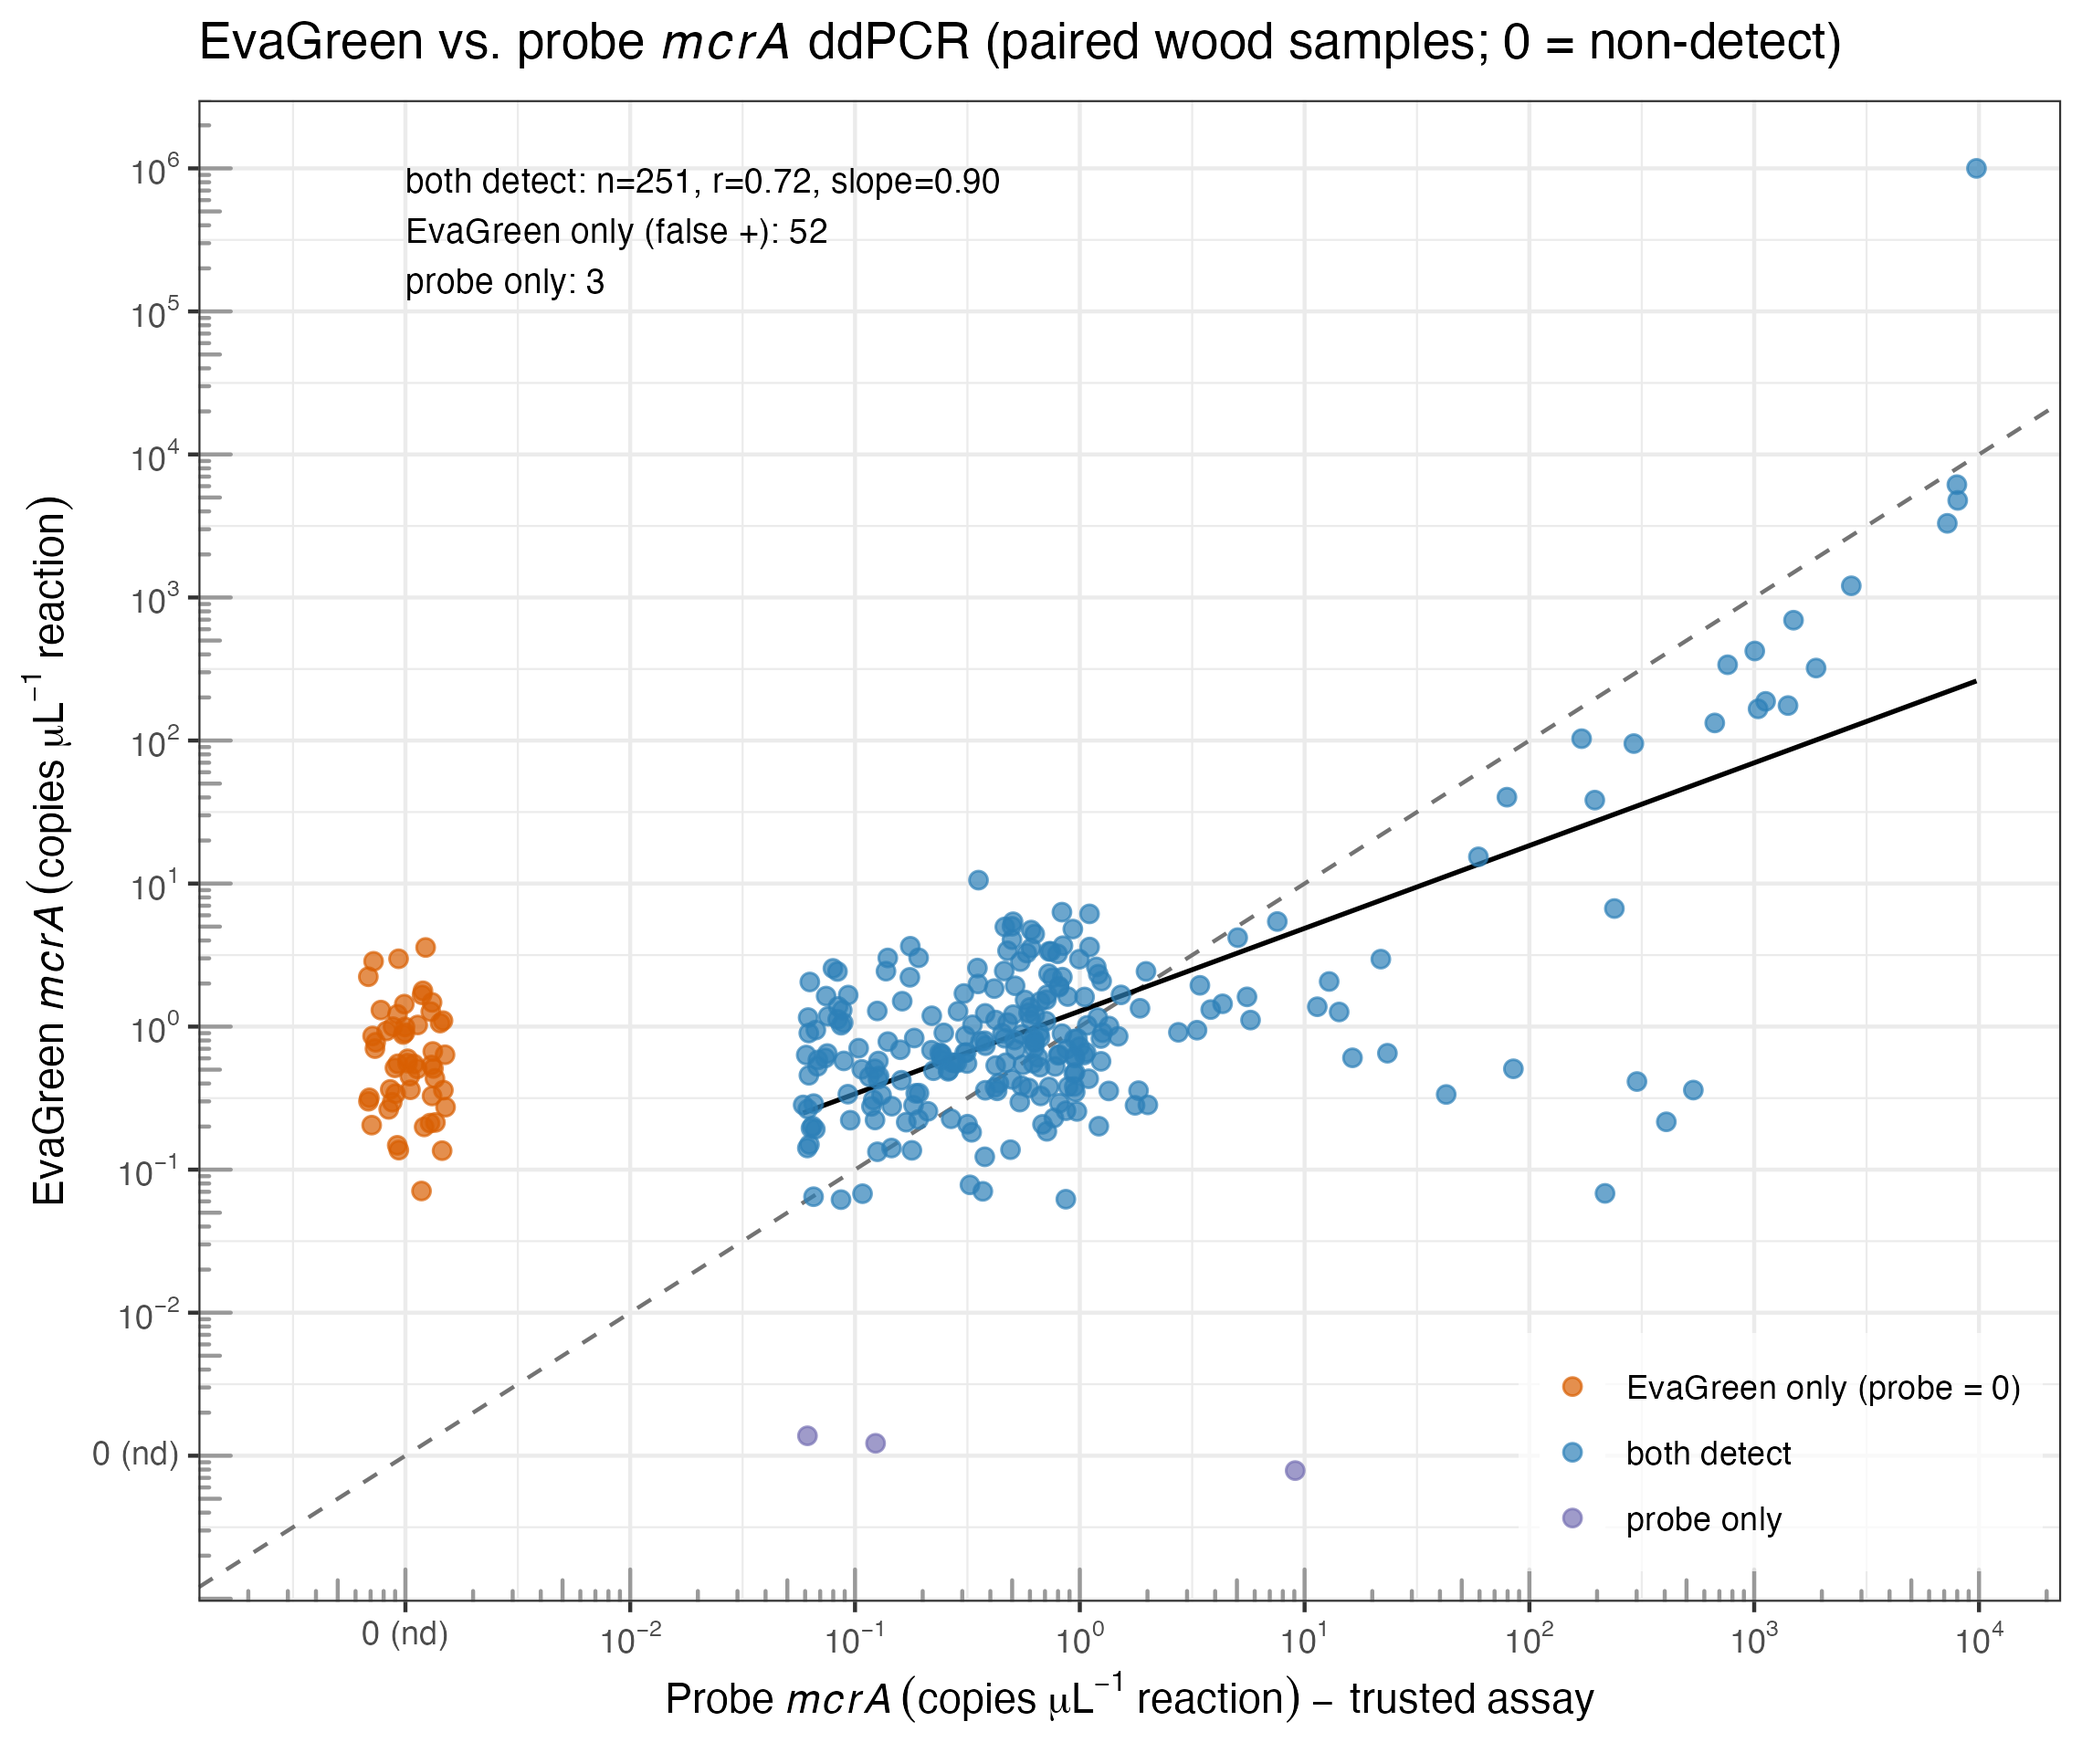
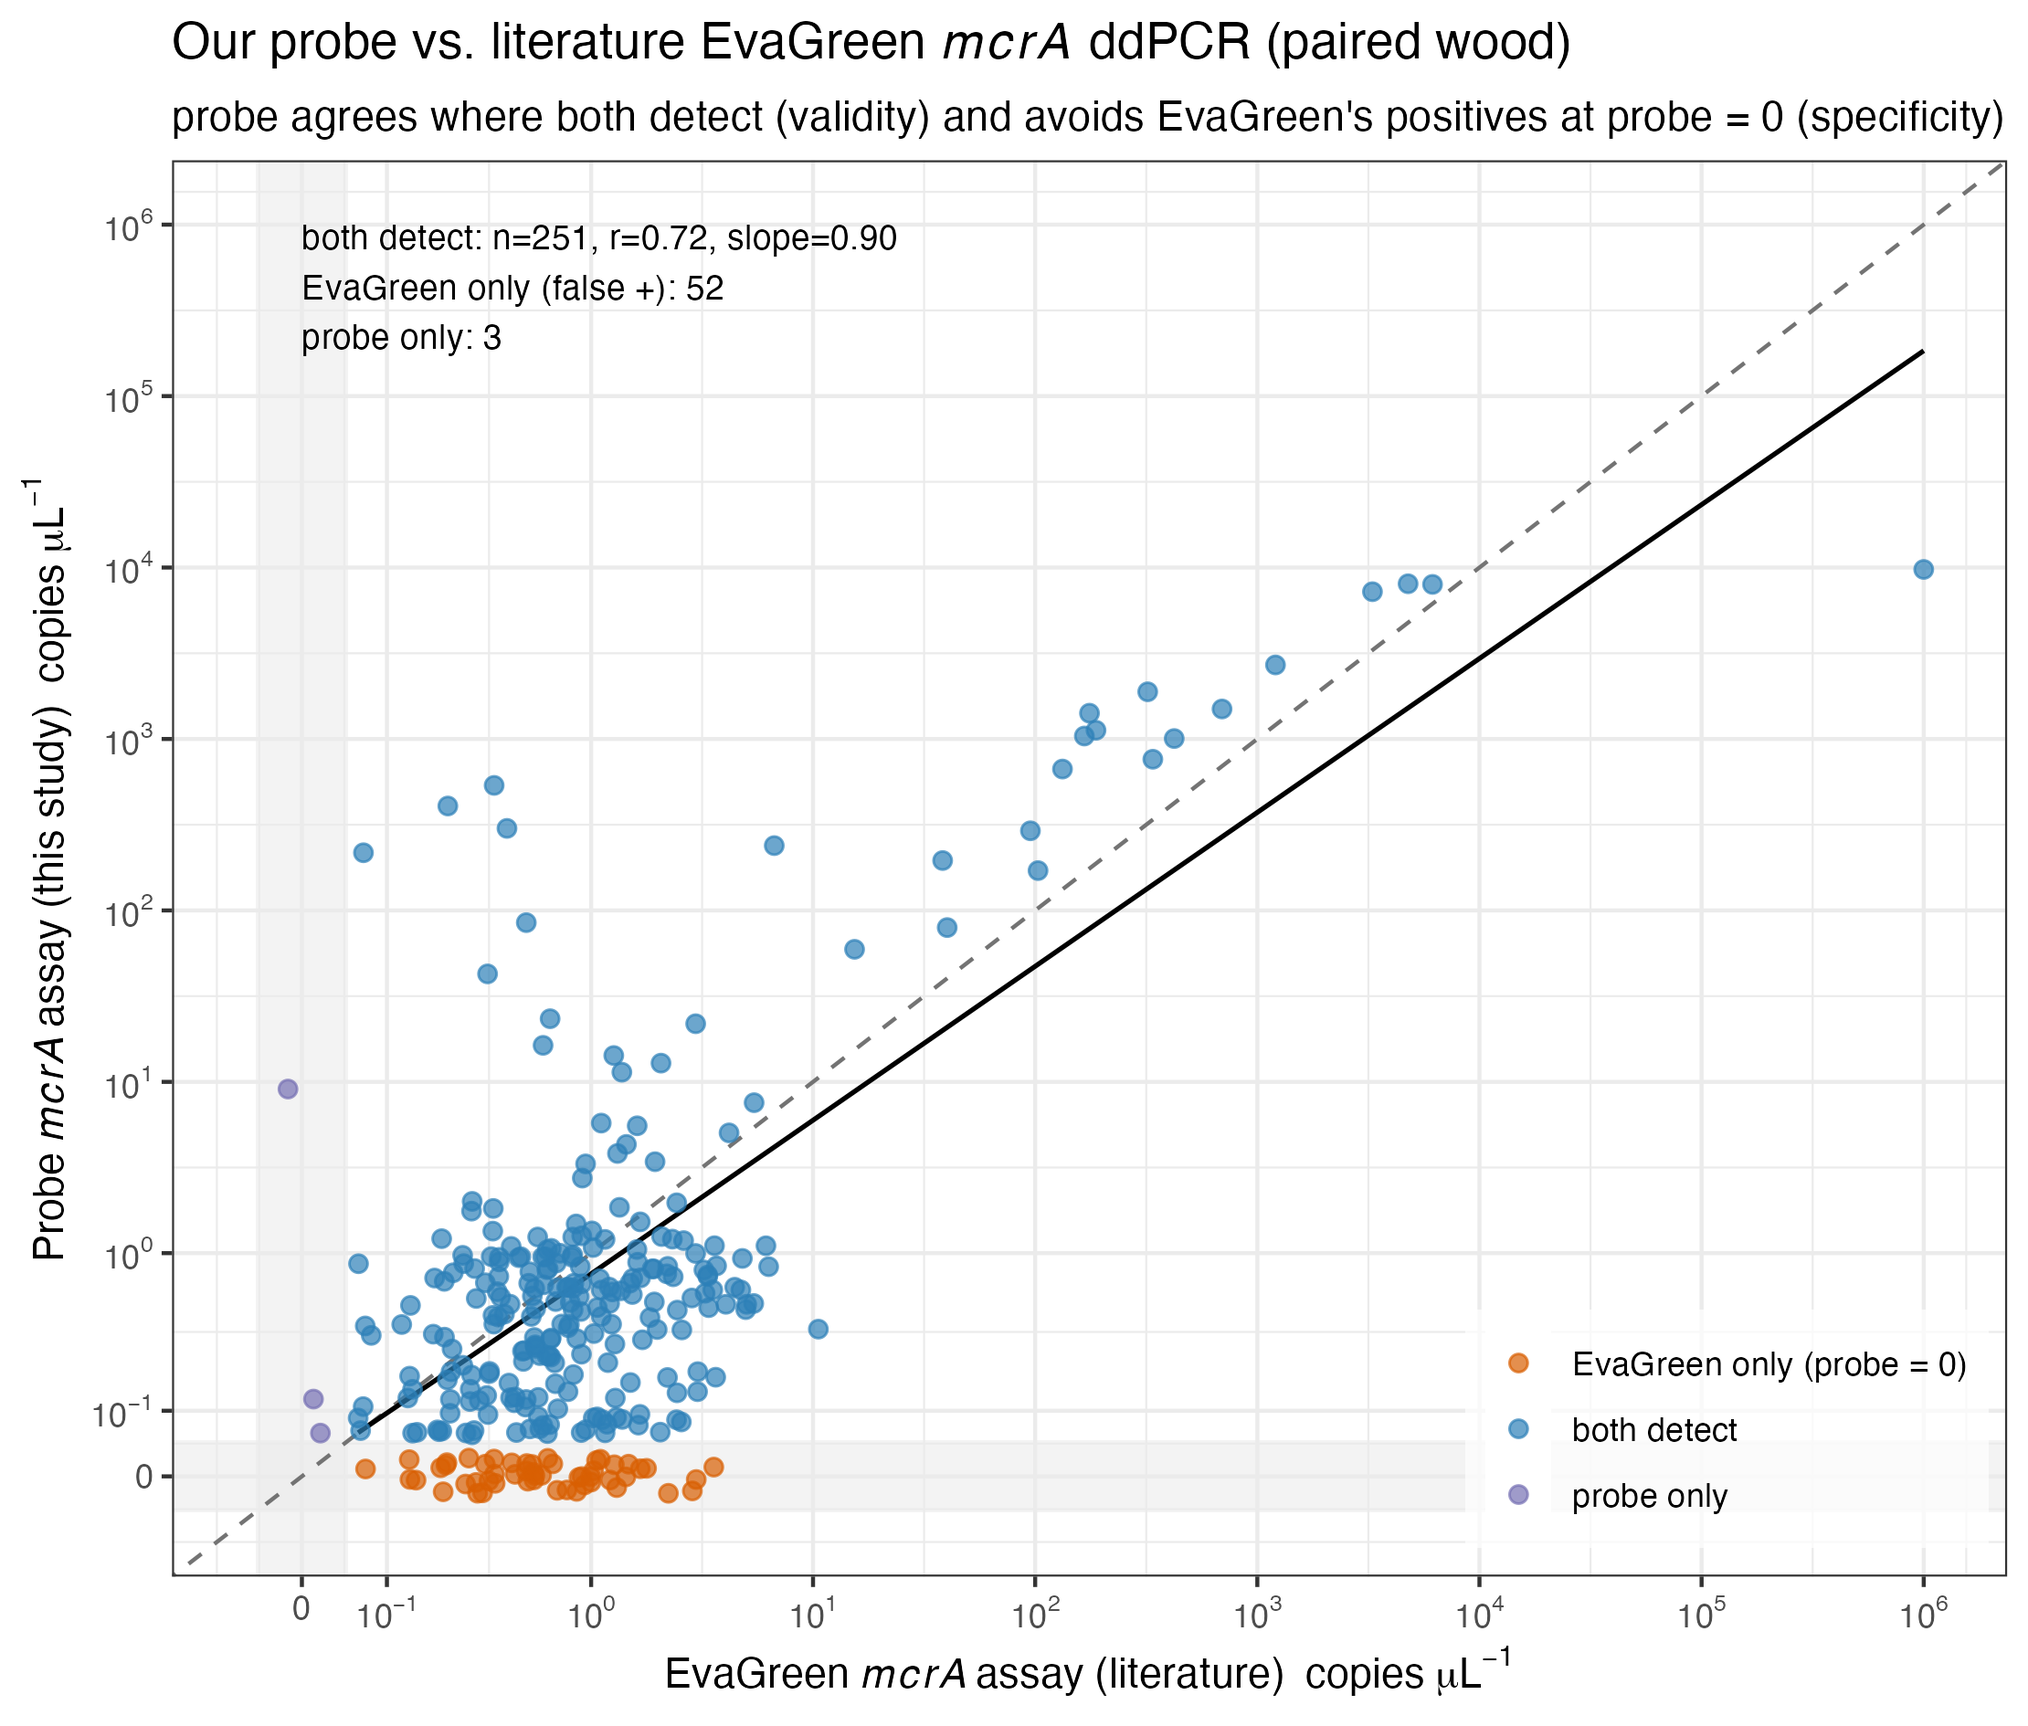
Finalize S19/S20 exploratory figures
S19 (mcrA validation): canonical = EvaGreen-on-x (false positives band pinned to
0 on our probe = conservatism); pseudo-log axes, copies/uL, assays labelled by
provenance (this study vs literature), no 'trusted assay'.
S20 (stem deterioration): honest 2-panel in original flux units. Both metrics
show the rise into moderate deterioration (robust to mean/median/rank); bark
spans the full gradient so the decline is observable (hump, quad p<0.001),
wounding only the rising range (linear p=0.024, degraded end unsampled). No
two-mechanism over-claim; 3-level bins avoid singleton categories.

diff --git a/outputs/revision/figures/MANIFEST.md b/outputs/revision/figures/MANIFEST.md
@@ -42,7 +42,7 @@ heatmap → SI; SI resequenced per `SI_FIGURES_PLAN.md`).
 | S17 | plant-traits | Plant-trait × methane-cycling heatmap (clade-robust) | NEW `rev_figS17_plant-traits.R` | — |
 | S18 | rf-flux-predictions | Random-forest flux predictions | orig | old S15 |
 | S19 | mcra-probe-validation | Probe vs EvaGreen *mcrA* ddPCR (agreement + EvaGreen false positives) | NEW `rev_figS19_mcra-probe-validation.R` | — |
-| S20 | stem-deterioration | Stem deterioration vs CH₄ flux (PC1 decay hump; PC2 wounding monotonic) | NEW `rev_figS20_stem-deterioration.R` | — |
+| S20 | stem-deterioration | Stem condition vs CH₄ flux (bark loss: hump over full gradient; wounding: rise over sampled range) | NEW `rev_figS20_stem-deterioration.R` | — |
 
 ### Retired from the SI set (moved to `exploratory/`)
 - **pmoa-mmox-by-compartment** (`rev_figS07_pmoa-mmox-compartment.R`) — redundant with S04.
